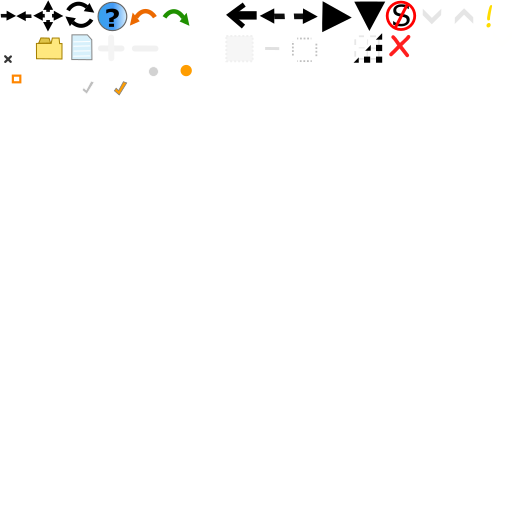
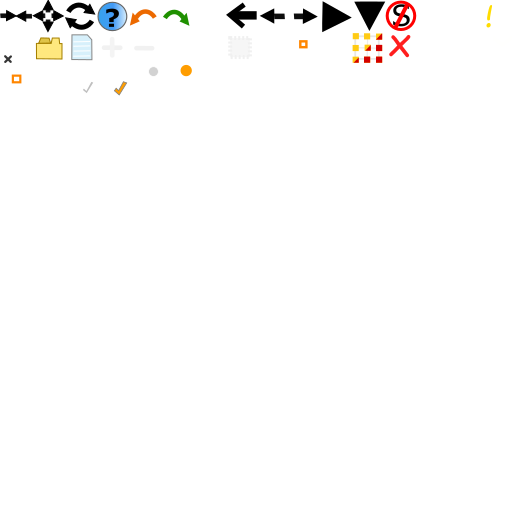
Just realized I lost iconsheet.svg, but luckily I was able to re-derive it from its original version in fairmotion.

diff --git a/docs/docs_src/toolsystem.md b/docs/docs_src/toolsystem.md
@@ -1,0 +1,92 @@
+# Tool System
+
+Tools are what the user uses to change state in the model.  They handle undo, can take control of events if needed and in generate are foundational to path.ux and it's associated projects.  
+
+Tools all inherit from ToolOp, which roughly looks like this (see Context section for an explanation for what the "ctx" parameters are):
+
+```
+class SomeTool extends ToolOp {
+  static tooldef() {return {
+    uiname   : "Tool",
+    path     : "module.tool"
+    inputs   : ToolOp.inherit({}), //inherit properties from base class
+    outputs  : {}
+  }}
+  static invoke(ctx, args) {
+    /*create a new tool instance.
+      args is simple key:val mapping
+      where val is either a string, a number
+      or a boolean.*/
+    return new ToolOp()
+  }
+  undoPre(ctx) {
+    //create undo data
+  }
+  undo(ctx) {
+    //execute undo with data made in previous call to this.undoPre
+  }
+  exec(ctx) {
+    //execute tool
+  }
+  modalStart(ctx) {
+    //start interactice mode
+  }
+  modalEnd(ctx) {
+    //end interactive mode
+  }
+  on_[mousedown/mousemove/mouseup/keydown](ctx) {
+    //interactive mode event
+  }
+  
+  ToolOp.register(SomeTool);
+}
+```
+
+## Context
+The foundation of the tool system is a special Context struct that's provided by client code.  Think of it as defining "arguments" for tools.  Path.ux can use any context struct, but requires the following properties be defined:
+
+```
+class Context {
+  get api() {
+    //return reference to a controller.ModelInterface
+  }
+  
+  get appstate() {
+    //return reference to main appstate global
+  }
+  
+  get screen() {
+    //return reference to main FrameManager.screen
+  }
+}
+```
+
+In addition, path.ux has hooks to provide UI context, specifically which are is currently active.  To do this,
+either override the following methods in ScreenArea.Area.prototype, or subclass Area:
+
+```
+  //called when area should be considered "active"
+  push_ctx_active() {
+  }
+  
+  //called when area should be considered "inactive"
+  pop_ctx_active() {
+  }
+```
+
+## Undo
+Typically tools will inherit from a base class with a general, brute-force undo (i.e. saving the 
+entire application and then reloading it on undo).  Additionally to save on speed and memory subclasses 
+can override undoPre and undo with their own implementation.
+
+
+## tooldef()
+Tools have a special tooldef() static function that "defines" the tool.  It returns things like
+what properties the tool has, it's name, it's path in the data path system, etc.
+
+## Tool Properties
+Tools have input and output slots.  See toolprop.js.  There are integer properties, float properties, 
+various linear algebra properties (vectors, matrices), enumerations, bitflags, and in addition client code
+may provide it's own property classes.
+
+

diff --git a/docs/docs_src/nstructjs.md b/docs/docs_src/nstructjs.md
@@ -1,1 +1,75 @@
-s
+# NStructJS
+
+NStructJS is a little library for saving/loading highly structured JS objects as binary data.  
+It is not suited for unstructed data (use JSON for that).  
+NStructJS arose out of the following shortcomings of JSON:
+
+- JSON allocates objects twice.
+- JSON is slow compared to what you can get with a structured binary format
+
+The idea of NStructJS is to attach little scripts to your classes that define that 
+class's data and how it is saved.  For example:
+
+```
+class SomeClass {
+  constructor() {
+    this.data1 = 0;
+    this.data2 = [1, 2, 3];
+  }
+  
+  //reader "fills in" fields in a newly created object with loaded data
+  static fromSTRUCT(reader) {
+    let ret = new SomeClass();
+    
+    reader(ret);
+    
+    return ret;
+  }
+}
+SomeClass.STRUCT = `
+my_module.SomeClass {
+  data1 : int;
+  data2 : array;
+}
+nstructjs.manager.add_class(SomeClass);
+`;
+```
+
+## Controller How Fields Are Saved
+
+Note that you can specify little code snippets to control how fields are saved.
+For example, if you want to save an integer ID instead of a reference for an 
+object property, you might do this:
+
+```
+my_module.AnotherClass {
+  someclass : int | obj.someclass !== undefined ? obj.someclass.id : -1;
+}
+```
+
+Here, everything after '|' until ';' defines how someclass is saved.  For various dumb reasons
+'this' is bound to 'obj'; as you can see, the basic idea is to check if this.someclass exists,
+if so use this.someclass.id, else use -1.
+
+## Versioning
+
+To a certain extend nstructjs will gracefully handle version changes.  The basic idea is to save a
+copy of your struct scripts with each file, that way each file knows how to load itself.
+
+For more advanced versioning, see AppState.prototype.do_versions and AppState.prototype.do_versions_post.
+They're used when the automatic versioning from nstructjs isn't enough.
+
+
+
+
+
+
+
+
+
+
+
+
+
+
+
